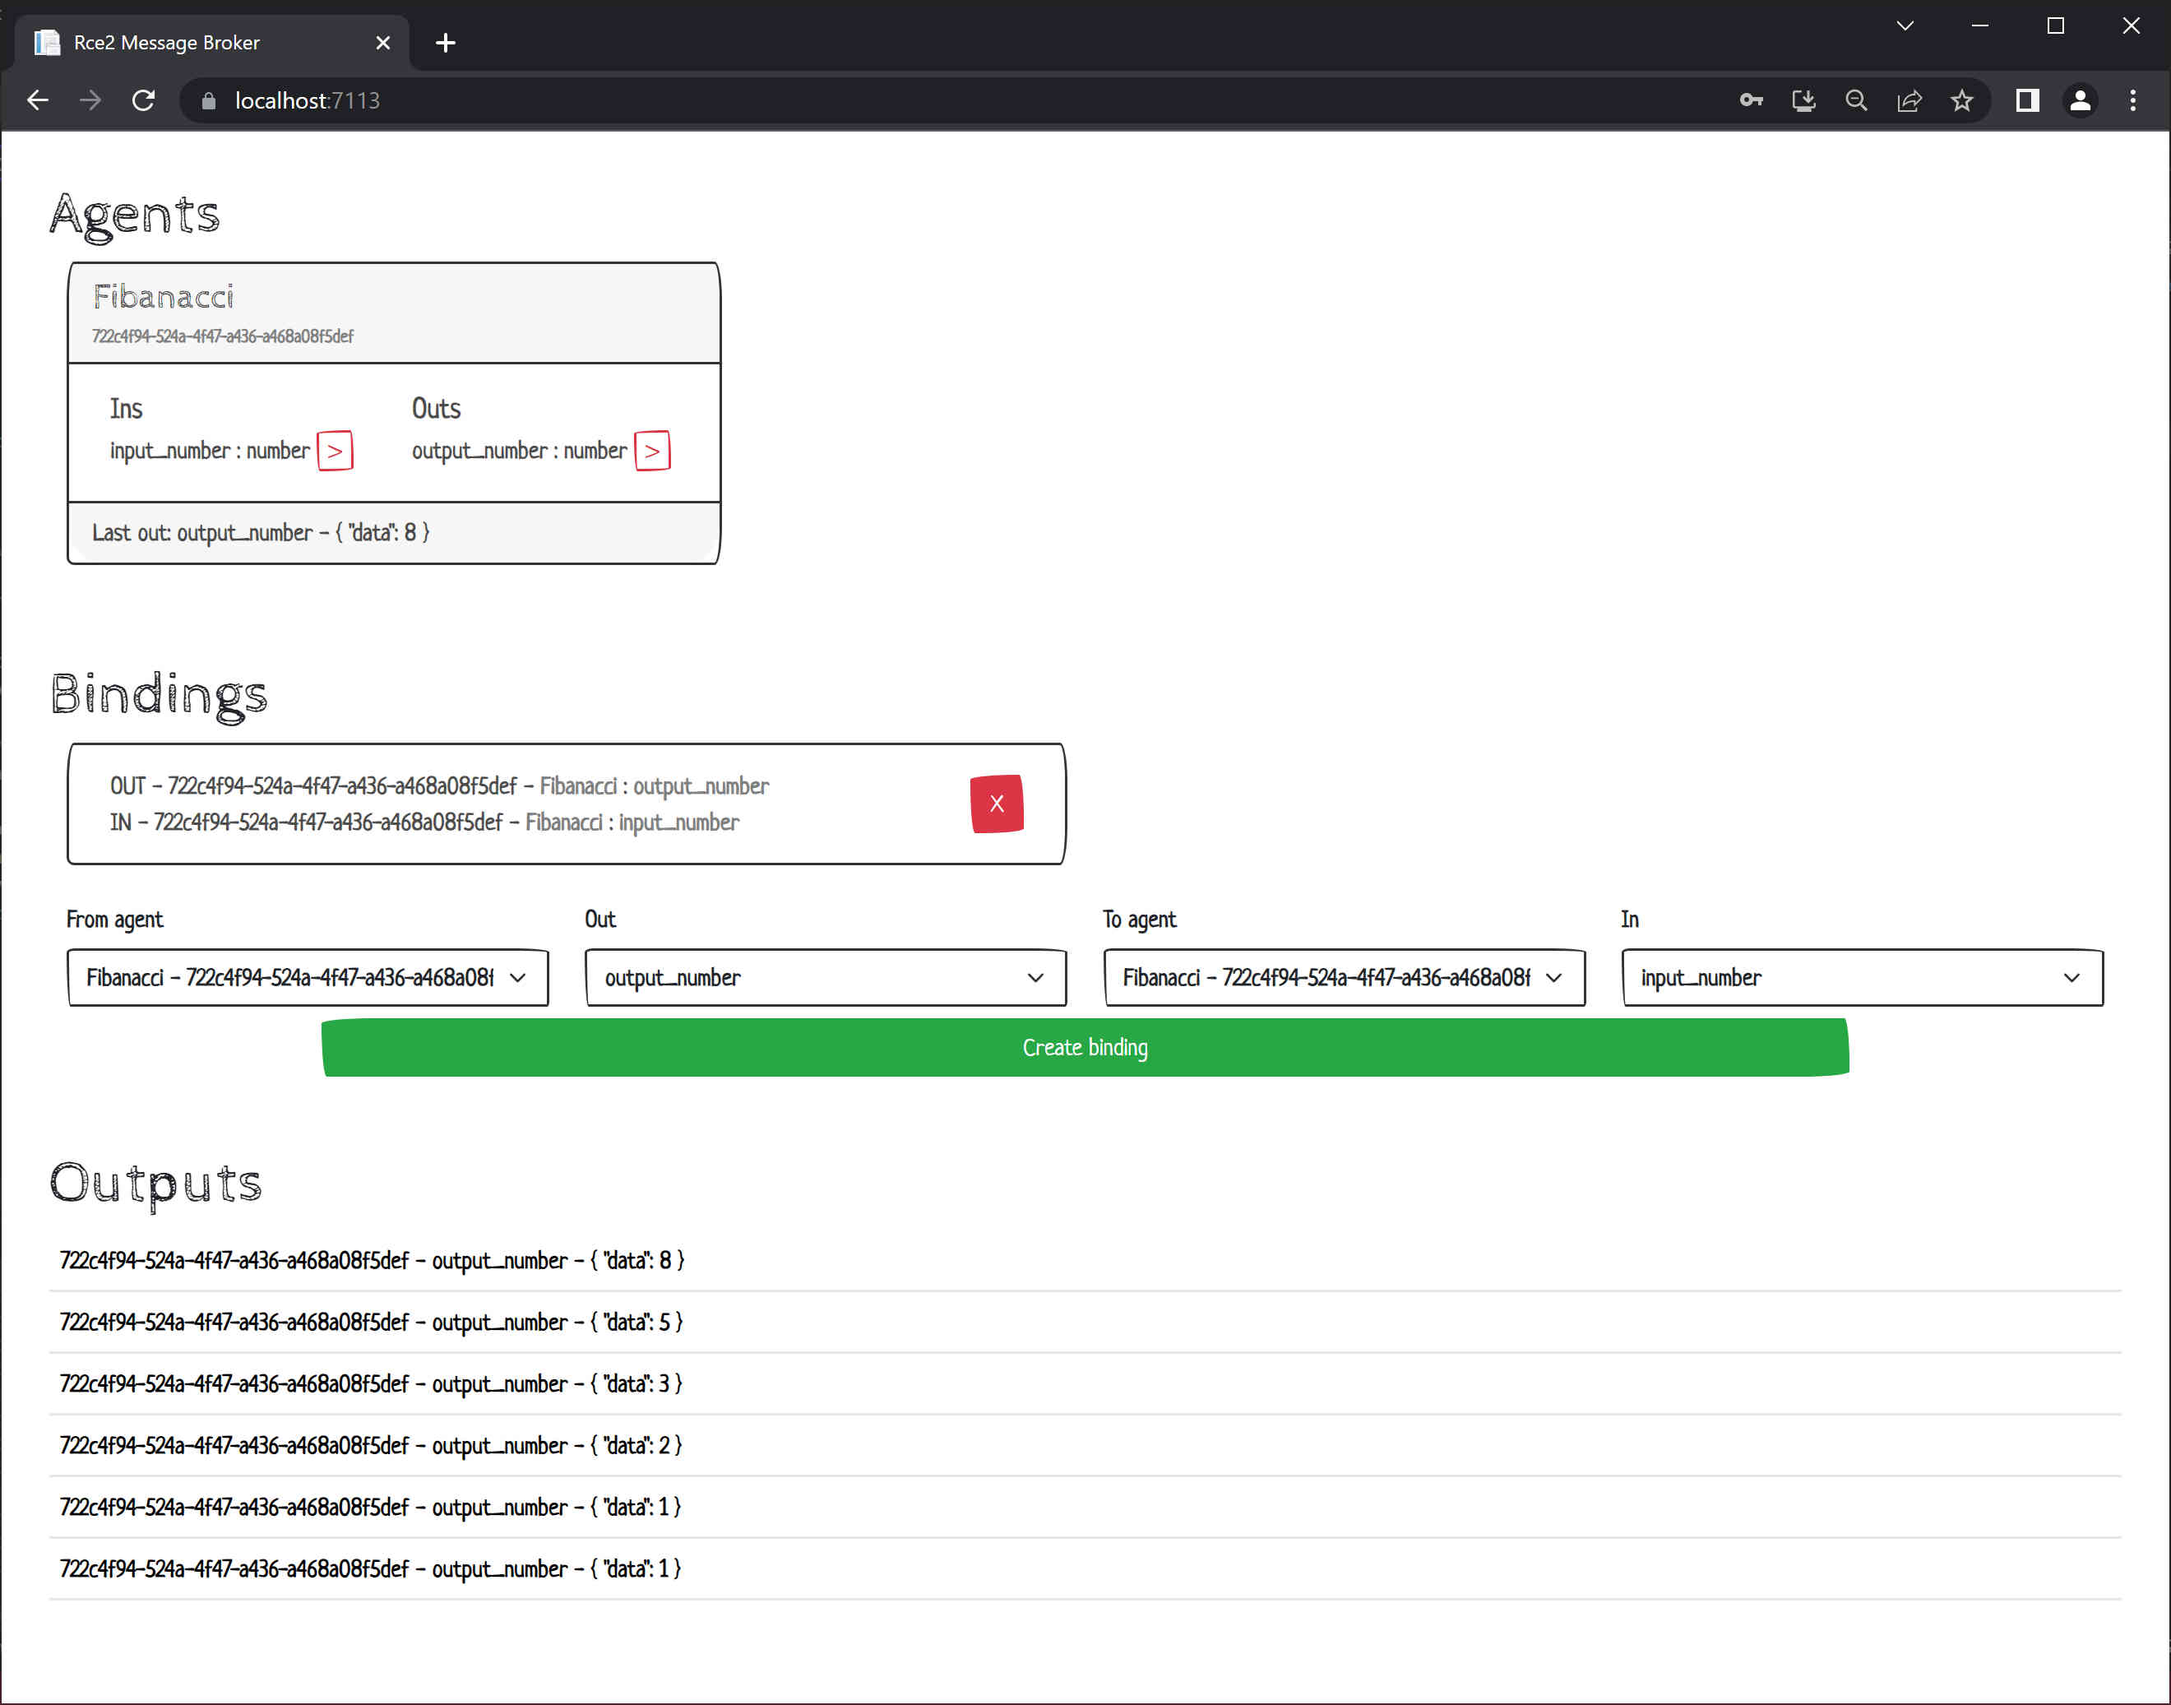
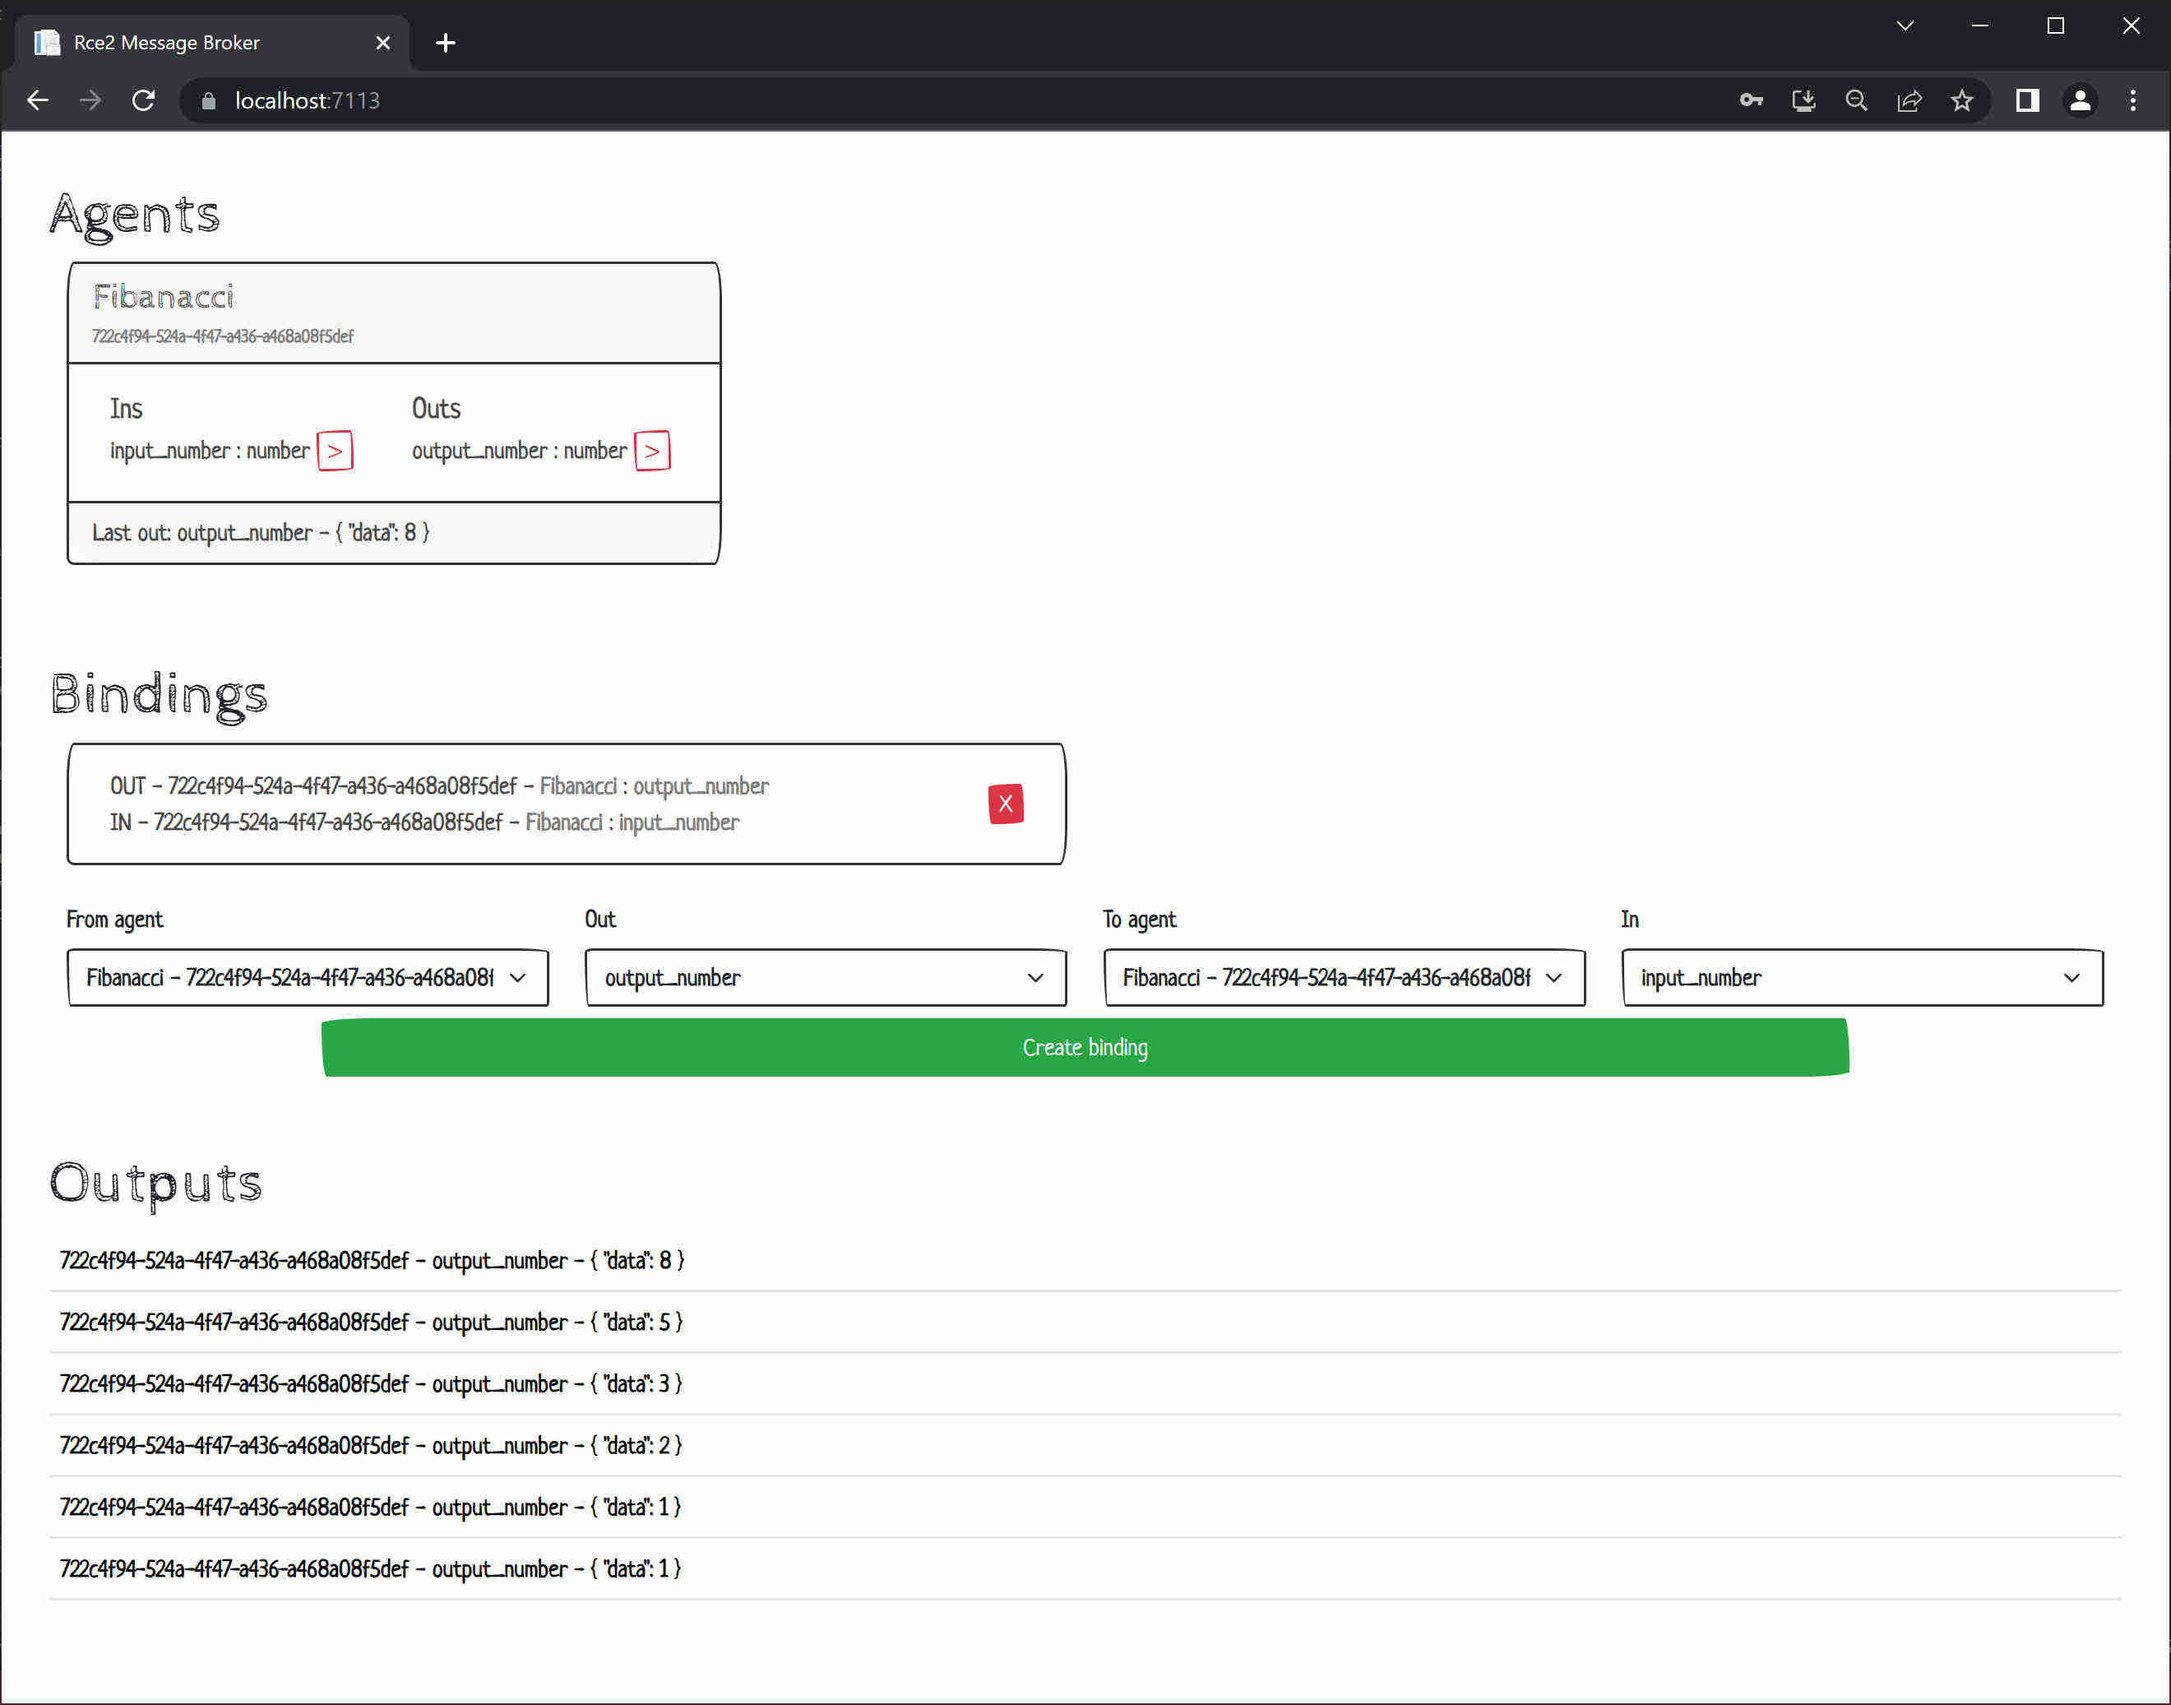
Small fixes

diff --git a/broker/Broker/Client/Components/BindingList.razor.css b/broker/Broker/Client/Components/BindingList.razor.css
@@ -13,3 +13,7 @@
 .binding-contact {
     color: grey;
 }
+
+.btn-small {
+    padding: 0px 6px;
+}

diff --git a/README.MD b/README.MD
@@ -7,7 +7,7 @@ A solution to connect and control any device supporting HTTP connections. PC, la
 
 # Not in brief
 The design goal is to enable creation of simple software driving various devices. Or more precisely providing a messaging layer that allows said software to remain simple.
-"Agents" as they are known in the system need only to support outgoing HTTP requests. One URL to be precise - GET it (long polling) to receive your message feed, POST it to send out your outputs, that is it. To prove that there is nothing more to it, a Postman example is provided, with the requests defined.
+"Agents" as they are known in the system need only to support outgoing HTTP requests. One URL - GET it (long polling) to receive your message feed, POST it to send out your outputs, that is it. 
 The communication is handled via a message broker that agents use to exchange messages between each other. Protocol-wise agents are completely separated (they don't see each other). So how do they communicate? Each agent has a list of inputs and a list of outputs. The broker creates bindings between them. If you've seen Unreal Engine design flow, that is basically the same concept. In other words, agents, from their point of view, send their outputs into the void and the broker, based on the bindings, makes sure that the messages end up in correct message feeds.
 
 # Feature summary
@@ -17,7 +17,7 @@ The communication is handled via a message broker that agents use to exchange me
 	- regarding the quotes on "no installation" - broker is pwa enabled so it can be dropped as an app on e.g. mobile - no more mobile browser hassle
 	- allows simulating agents' inputs and outputs
 - Agents
-	- quick and easy to write - a simple agent can be created in under 5 minutes, it takes longer to figure out what it is supposed to be doing that to actually code it
+	- quick and easy to write - a simple agent can be created in under 5 minutes, it takes longer to figure out what it is supposed to be doing than to actually code it
 	- can be created on any hardware in any language as long as HTTP connections are supported
 	- need only outgoing HTTP requests - will work behind firewall, NAT etc.
 	- separated from the rest of the system - input/output based
@@ -33,7 +33,7 @@ Two processors getting and processing data from a single dispatcher.
 <p align="center"><img src="/docs/processing.jpg" width="600"/></p>
 
 # Security considerations
-The concept of an "agent" came from an early draft where agent and broker responsibilities were, sort of, reversed. The broker was stupid, just a message proxy, and the whole binding responsibility was with the agents. The network was shaped based on the agents' agendas (hence the name). This was obviously a security nightmare, as a single compromised agent compromised the entire network. In a system where the devices can be God knows where this was not acceptable.
+The concept of an "agent" came from an early draft, where agent and broker responsibilities were, sort of, reversed. The broker was stupid, just a message proxy, and the whole binding responsibility was with the agents. The network was shaped based on the agents' agendas (hence the name). This was obviously a security nightmare, as a single compromised agent compromised the entire network. In a system where devices can be God knows where this was not acceptable.
 In current implementation agents have no knowledge of the rest of the network. They get messages delivered to their message feed and send their own messages to the ether. Only on broker level you see the entire network and agent bindings.
 Still for a high security environment an additional challenge-response layer should be added. Another idea is a gatekeeper agent - inserted between two other agents, proxying communication, monitoring messages. Other than that not much more can be done. No password protection or authentication scheme can protect an agent on a remote device from getting compromised. The password/hash/key has to be in memory to allow communication, plus the harder we push authorization, the more situations will require human interaction - reentering the credentials.
 
